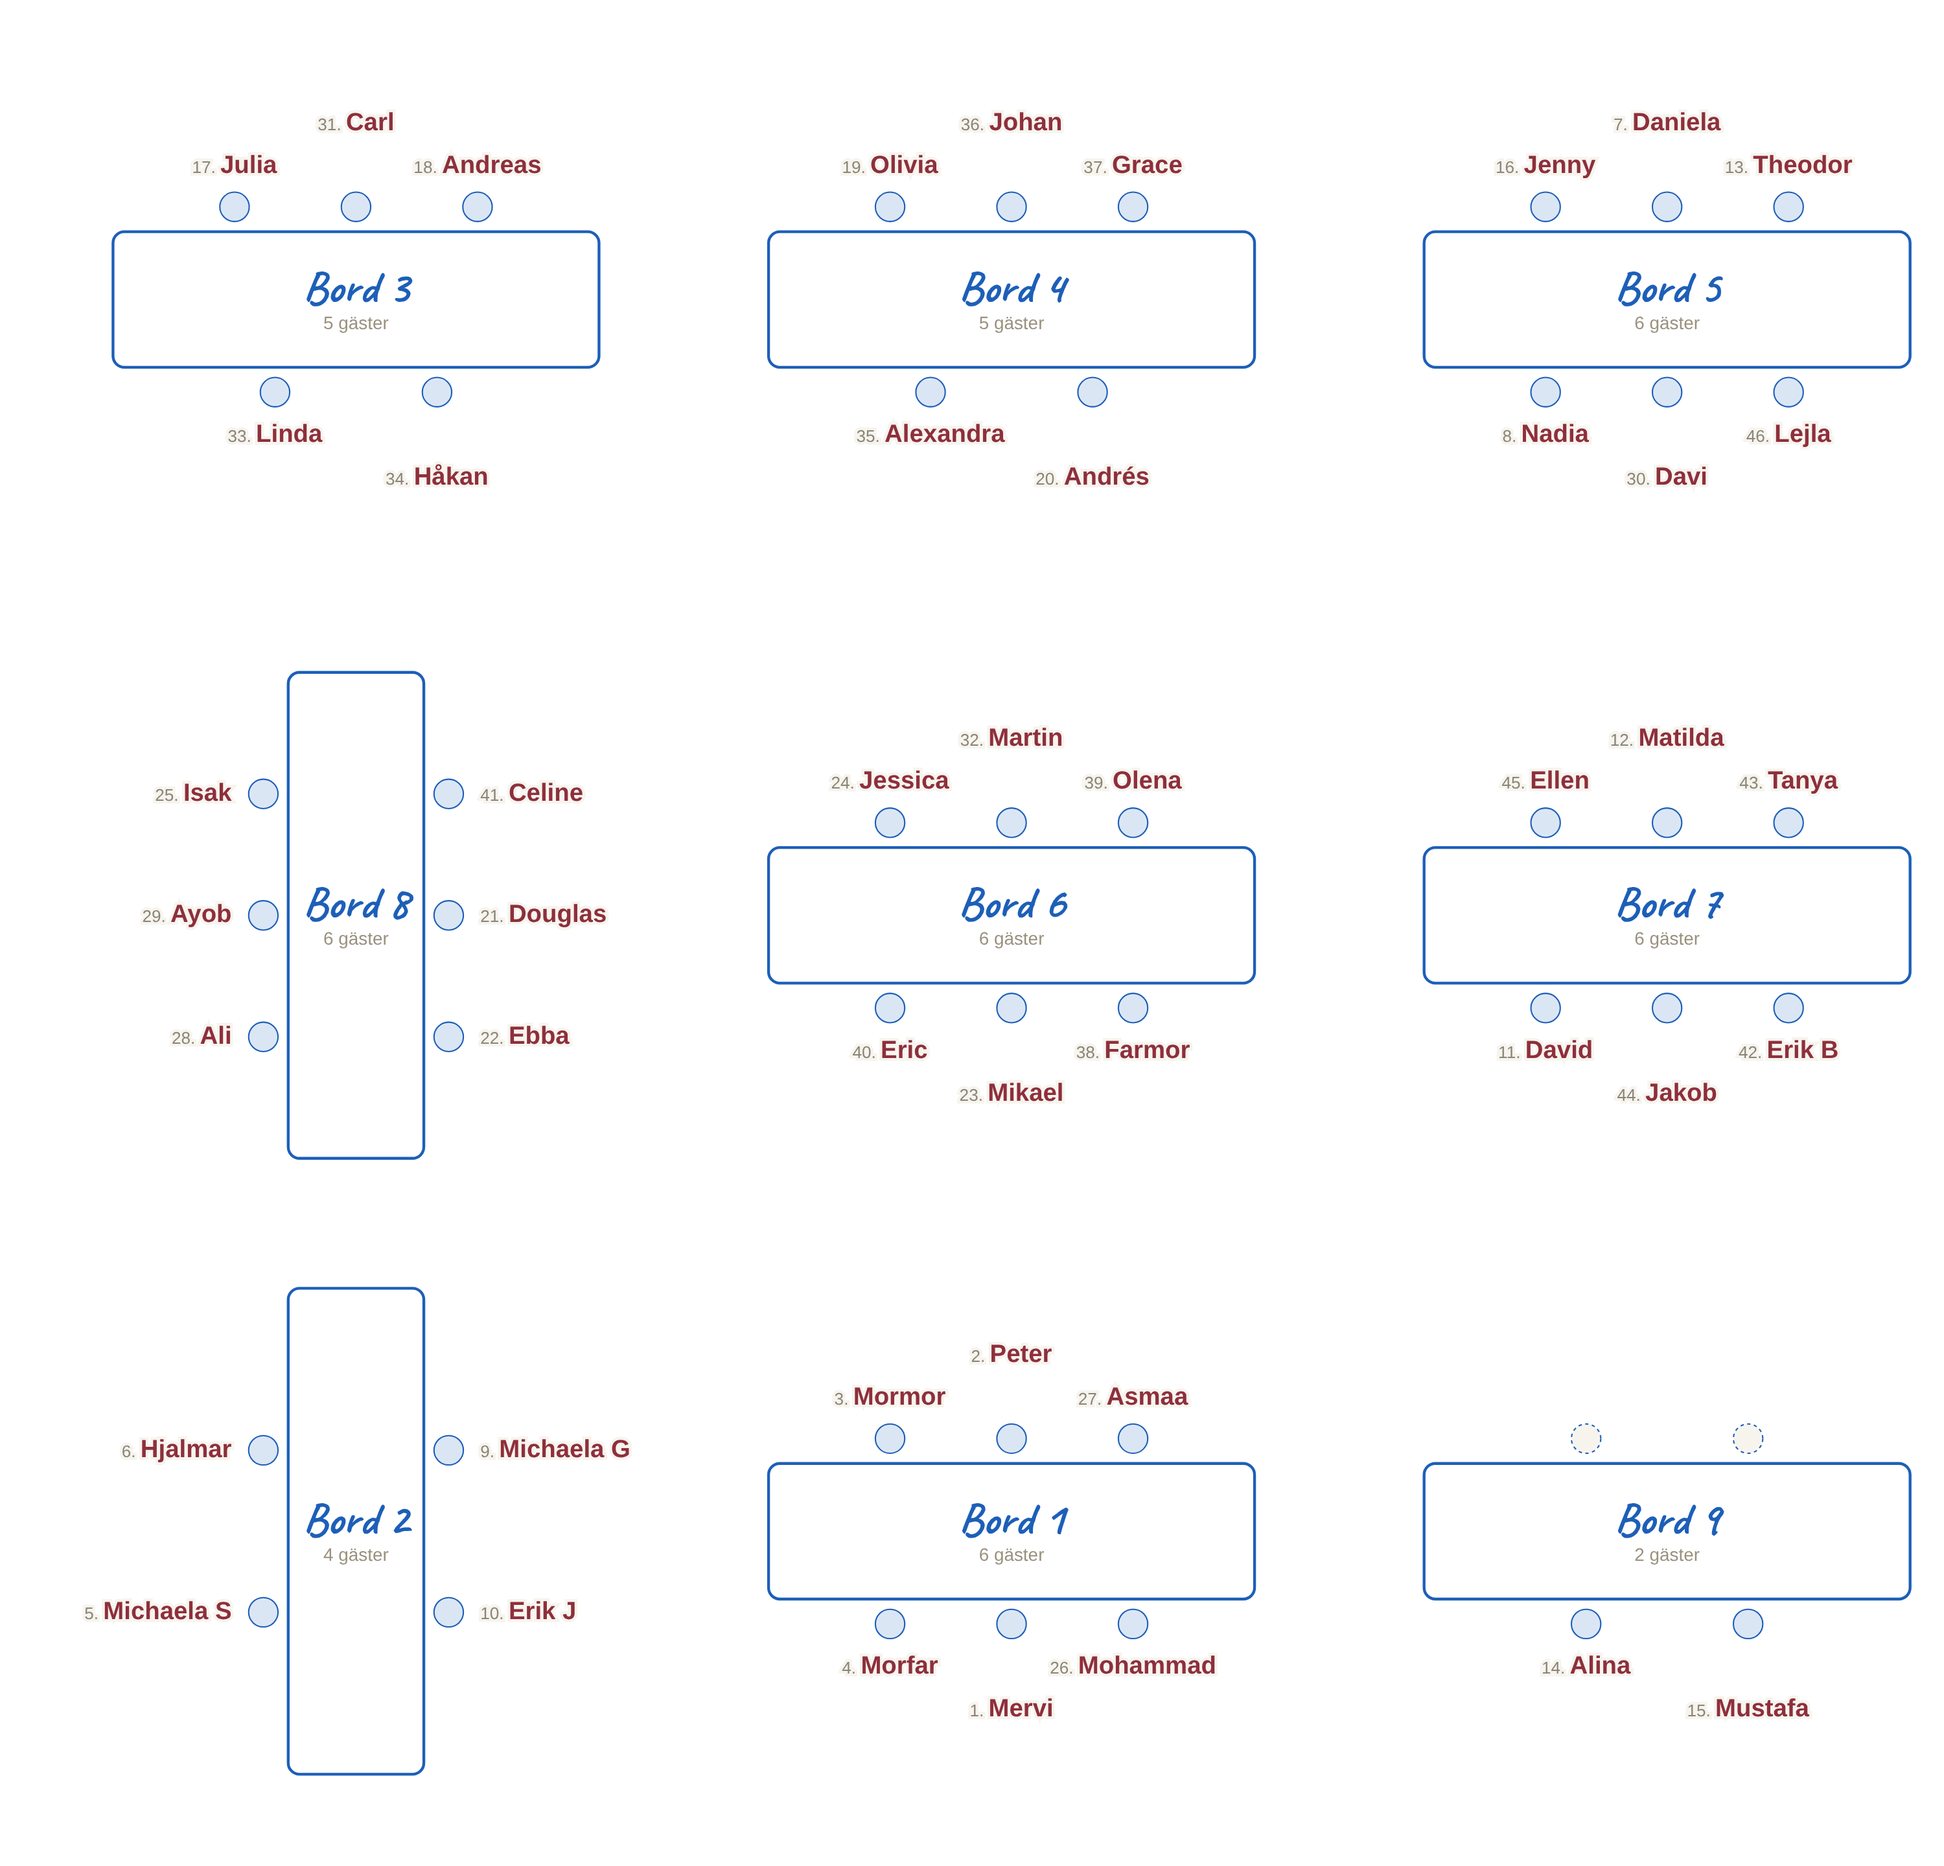
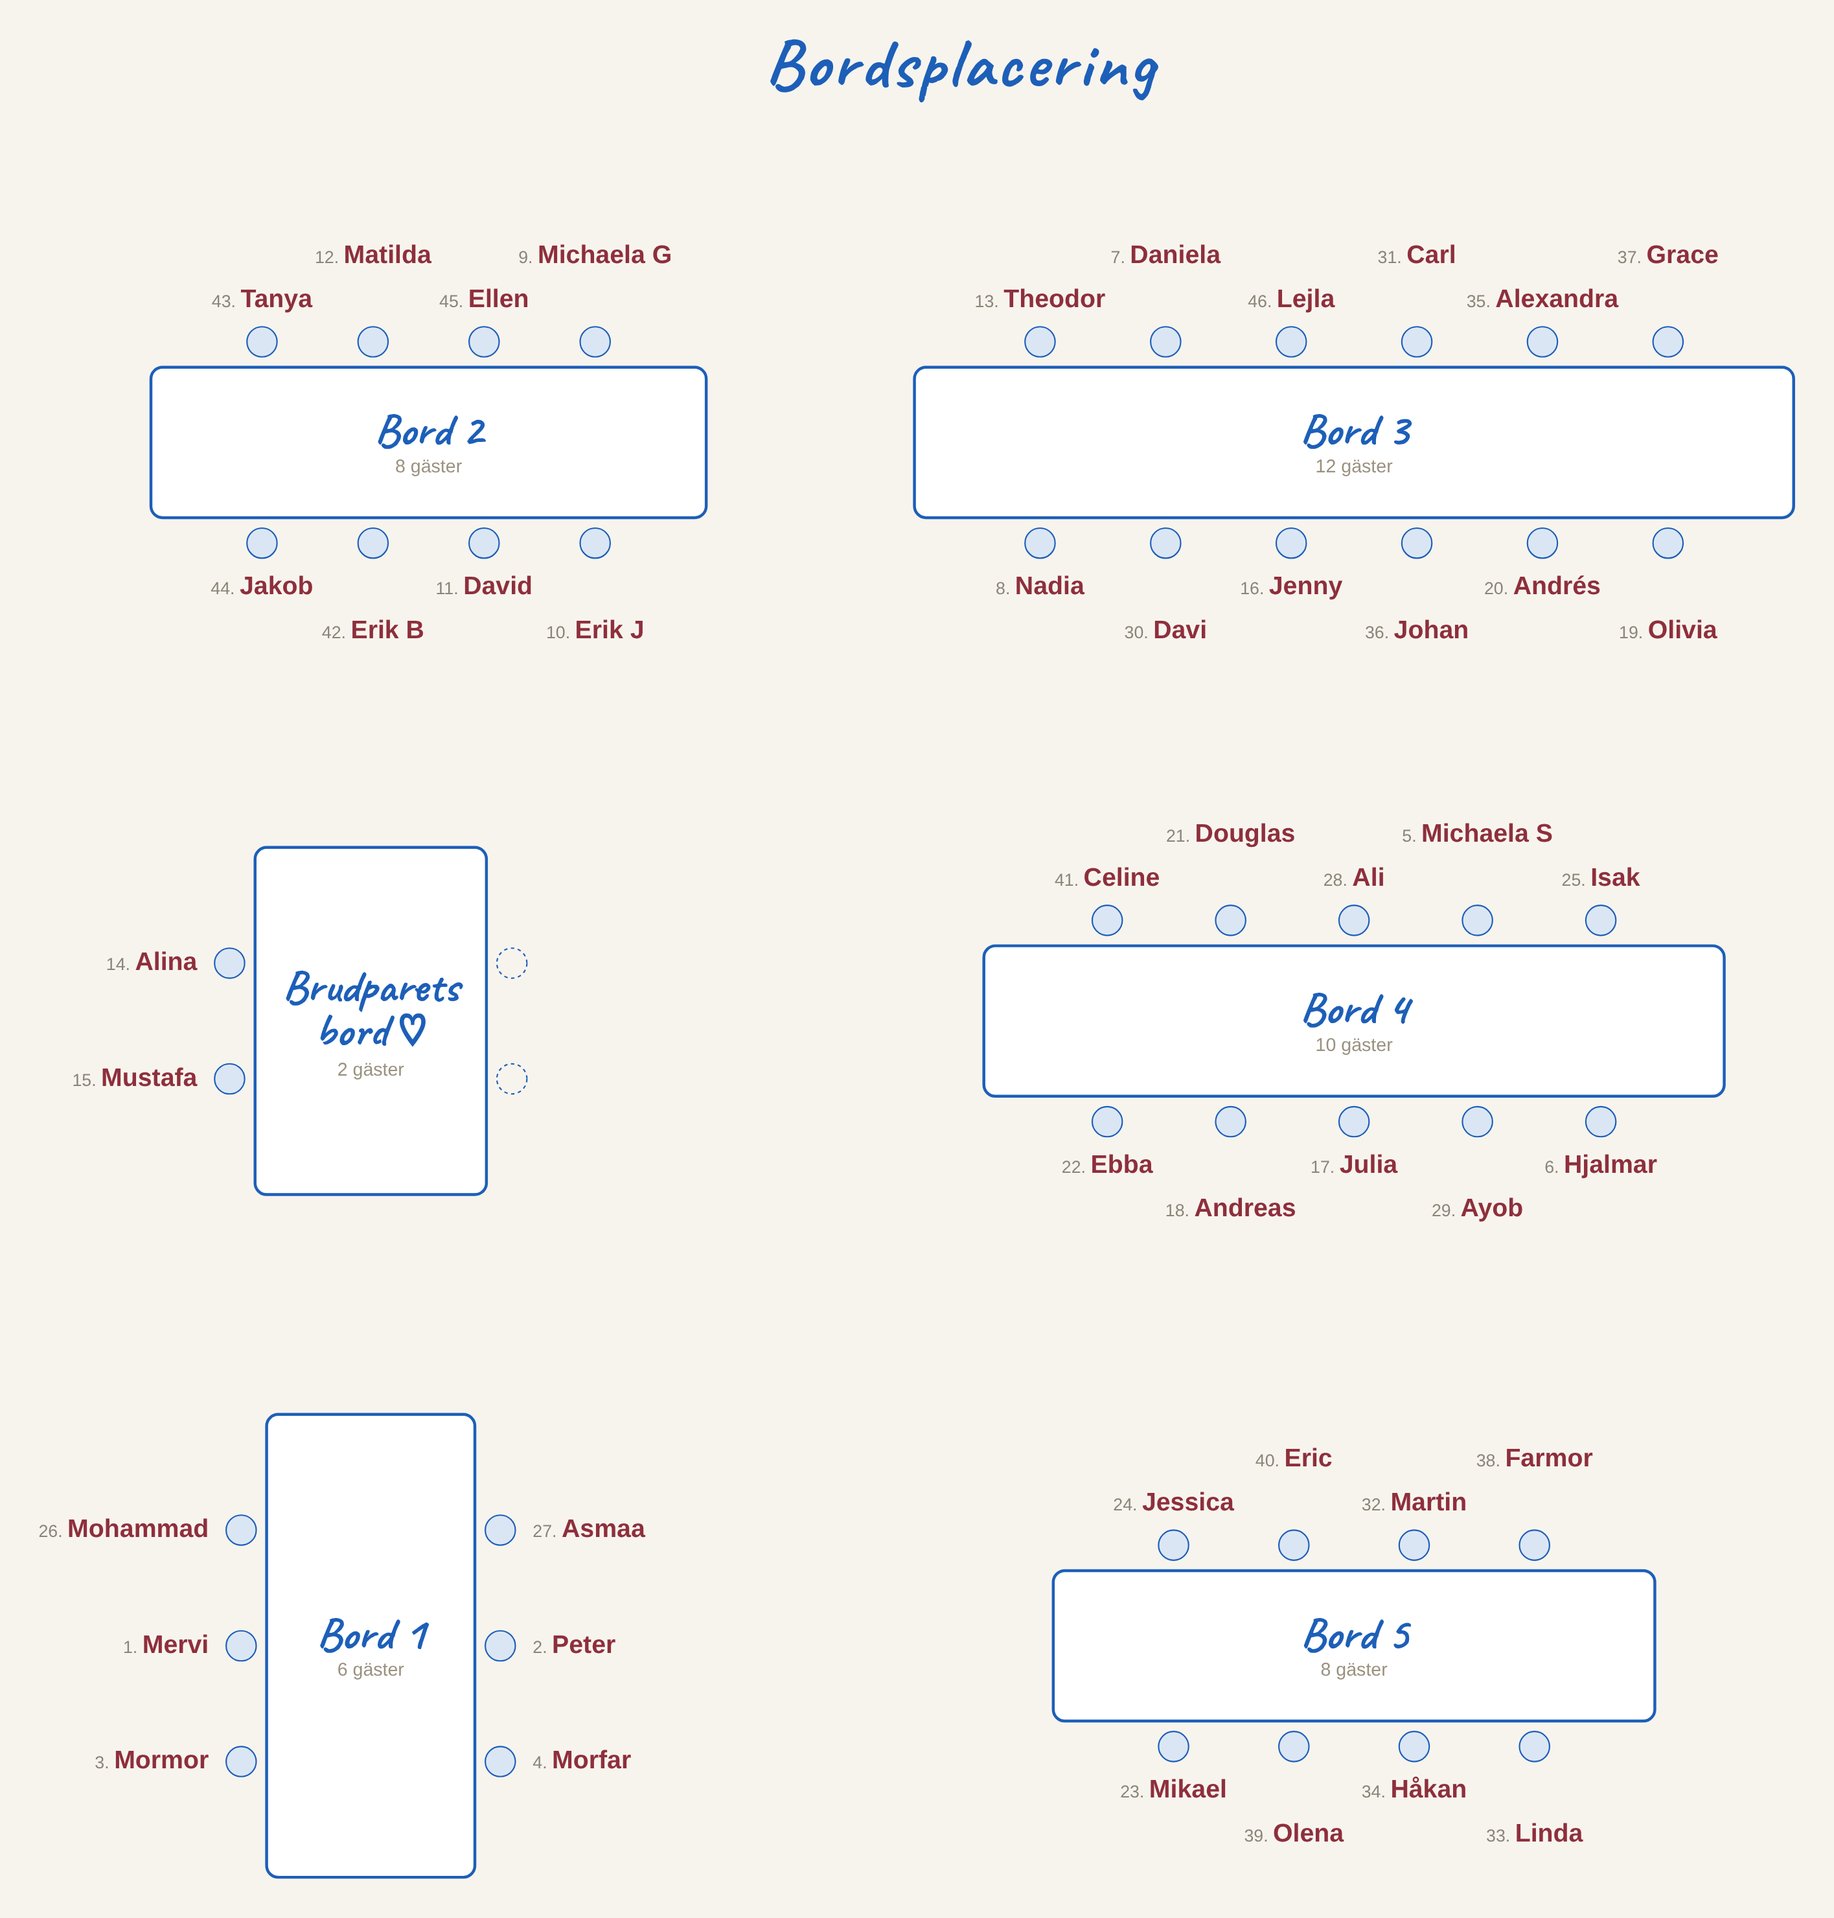
Update bordsplacering to new six-table layout

diff --git a/bordsplacering.html b/bordsplacering.html
@@ -48,43 +48,35 @@
 </head>
 <body>
 <h1>Bordsplacering</h1>
-<svg id="scene" viewBox="0 0 1720 1650" role="img" aria-label="Bordsplacering med nio avlånga bord"></svg>
+<svg id="scene" viewBox="0 0 1680 1560" role="img" aria-label="Bordsplacering med sex bord"></svg>
 
 <script>
 if (location.hash === "#embed") document.body.classList.add("embed");
 
 // Samma positioner som på fotot:
-// rad 1: Bord 3, 4, 5 · rad 2: Bord 8 (stående), 6, 7 · rad 3: Bord 2 (stående), 1, 9
+// vänster kolumn: Bord 2, Brudparets bord (stående), Bord 1 (stående)
+// höger kolumn: Bord 3, Bord 4, Bord 5
 const tables = [
-  { label: "Bord 3", col: 0, row: 0,
-    top:    [[17,"Julia"],[31,"Carl"],[18,"Andreas"]],
-    bottom: [[33,"Linda"],[34,"Håkan"]] },
-  { label: "Bord 4", col: 1, row: 0,
-    top:    [[19,"Olivia"],[36,"Johan"],[37,"Grace"]],
-    bottom: [[35,"Alexandra"],[20,"Andrés"]] },
-  { label: "Bord 5", col: 2, row: 0,
-    top:    [[16,"Jenny"],[7,"Daniela"],[13,"Theodor"]],
-    bottom: [[8,"Nadia"],[30,"Davi"],[46,"Lejla"]] },
+  { label: "Bord 2", cx: 380, cy: 290, len: 480, depth: 130,
+    top:    [[43,"Tanya"],[12,"Matilda"],[45,"Ellen"],[9,"Michaela G"]],
+    bottom: [[44,"Jakob"],[42,"Erik B"],[11,"David"],[10,"Erik J"]] },
+  { label: "Bord 3", cx: 1180, cy: 290, len: 760, depth: 130,
+    top:    [[13,"Theodor"],[7,"Daniela"],[46,"Lejla"],[31,"Carl"],[35,"Alexandra"],[37,"Grace"]],
+    bottom: [[8,"Nadia"],[30,"Davi"],[16,"Jenny"],[36,"Johan"],[20,"Andrés"],[19,"Olivia"]] },
 
-  { label: "Bord 8", col: 0, row: 1, vertical: true,
-    top:    [[25,"Isak"],[29,"Ayob"],[28,"Ali"]],          // vänster sida
-    bottom: [[41,"Celine"],[21,"Douglas"],[22,"Ebba"]] },  // höger sida
-  { label: "Bord 6", col: 1, row: 1,
-    top:    [[24,"Jessica"],[32,"Martin"],[39,"Olena"]],
-    bottom: [[40,"Eric"],[23,"Mikael"],[38,"Farmor"]] },
-  { label: "Bord 7", col: 2, row: 1,
-    top:    [[45,"Ellen"],[12,"Matilda"],[43,"Tanya"]],
-    bottom: [[11,"David"],[44,"Jakob"],[42,"Erik B"]] },
+  { label: ["Brudparets", "bord ♡"], cx: 330, cy: 790, len: 300, depth: 200, vertical: true,
+    top:    [[14,"Alina"],[15,"Mustafa"]],                 // vänster sida
+    bottom: [null, null] },                                // lediga platser
+  { label: "Bord 4", cx: 1180, cy: 790, len: 640, depth: 130,
+    top:    [[41,"Celine"],[21,"Douglas"],[28,"Ali"],[5,"Michaela S"],[25,"Isak"]],
+    bottom: [[22,"Ebba"],[18,"Andreas"],[17,"Julia"],[29,"Ayob"],[6,"Hjalmar"]] },
 
-  { label: "Bord 2", col: 0, row: 2, vertical: true,
-    top:    [[6,"Hjalmar"],[5,"Michaela S"]],              // vänster sida
-    bottom: [[9,"Michaela G"],[10,"Erik J"]] },            // höger sida
-  { label: "Bord 1", col: 1, row: 2,
-    top:    [[3,"Mormor"],[2,"Peter"],[27,"Asmaa"]],
-    bottom: [[4,"Morfar"],[1,"Mervi"],[26,"Mohammad"]] },
-  { label: "Bord 9", col: 2, row: 2,
-    top:    [null, null],                                   // lediga platser
-    bottom: [[14,"Alina"],[15,"Mustafa"]] },
+  { label: "Bord 1", cx: 330, cy: 1330, len: 400, depth: 180, vertical: true,
+    top:    [[26,"Mohammad"],[1,"Mervi"],[3,"Mormor"]],     // vänster sida
+    bottom: [[27,"Asmaa"],[2,"Peter"],[4,"Morfar"]] },      // höger sida
+  { label: "Bord 5", cx: 1180, cy: 1330, len: 520, depth: 130,
+    top:    [[24,"Jessica"],[40,"Eric"],[32,"Martin"],[38,"Farmor"]],
+    bottom: [[23,"Mikael"],[39,"Olena"],[34,"Håkan"],[33,"Linda"]] },
 ];
 
 const svgNS = "http://www.w3.org/2000/svg";
@@ -97,10 +89,7 @@ function el(name, attrs, parent) {
   return n;
 }
 
-const TABLE_L = 430, TABLE_S = 120; // lång- och kortsida
 const SEAT_R = 13, SEAT_GAP = 22;
-const X0 = 315, Y0 = 265;
-const CELL_W = 580, CELL_H = 545;
 
 function seatPositions(count, length) {
   // jämnt fördelade längs långsidan
@@ -120,48 +109,51 @@ function guestText(g, x, y, guest, anchor) {
 }
 
 tables.forEach(t => {
-  const cx = X0 + t.col * CELL_W;
-  const cy = Y0 + t.row * CELL_H;
+  const cx = t.cx, cy = t.cy, L = t.len, S = t.depth;
   const g = el("g", {}, svg);
   const guestCount = [...t.top, ...t.bottom].filter(Boolean).length;
 
   if (!t.vertical) {
     // liggande bord: gäster längs över- och undersidan
-    el("rect", { x: cx - TABLE_L/2, y: cy - TABLE_S/2, width: TABLE_L, height: TABLE_S, rx: 10, class: "tableRect" }, g);
+    el("rect", { x: cx - L/2, y: cy - S/2, width: L, height: S, rx: 10, class: "tableRect" }, g);
 
-    seatPositions(t.top.length, TABLE_L).forEach((dx, j) => {
+    seatPositions(t.top.length, L).forEach((dx, j) => {
       const guest = t.top[j];
-      const sy = cy - TABLE_S/2 - SEAT_GAP;
+      const sy = cy - S/2 - SEAT_GAP;
       el("circle", { cx: cx + dx, cy: sy, r: SEAT_R, class: guest ? "seat" : "seatEmpty" }, g);
       if (guest) guestText(g, cx + dx, j % 2 ? sy - 68 : sy - 30, guest, "middle");
     });
-    seatPositions(t.bottom.length, TABLE_L).forEach((dx, j) => {
+    seatPositions(t.bottom.length, L).forEach((dx, j) => {
       const guest = t.bottom[j];
-      const sy = cy + TABLE_S/2 + SEAT_GAP;
+      const sy = cy + S/2 + SEAT_GAP;
       el("circle", { cx: cx + dx, cy: sy, r: SEAT_R, class: guest ? "seat" : "seatEmpty" }, g);
       if (guest) guestText(g, cx + dx, j % 2 ? sy + 82 : sy + 44, guest, "middle");
     });
   } else {
     // stående bord: gäster längs vänster och höger sida
-    el("rect", { x: cx - TABLE_S/2, y: cy - TABLE_L/2, width: TABLE_S, height: TABLE_L, rx: 10, class: "tableRect" }, g);
+    el("rect", { x: cx - S/2, y: cy - L/2, width: S, height: L, rx: 10, class: "tableRect" }, g);
 
-    seatPositions(t.top.length, TABLE_L).forEach((dy, j) => {
+    seatPositions(t.top.length, L).forEach((dy, j) => {
       const guest = t.top[j];
-      const sx = cx - TABLE_S/2 - SEAT_GAP;
+      const sx = cx - S/2 - SEAT_GAP;
       el("circle", { cx: sx, cy: cy + dy, r: SEAT_R, class: guest ? "seat" : "seatEmpty" }, g);
       if (guest) guestText(g, sx - 28, cy + dy + 6, guest, "end");
     });
-    seatPositions(t.bottom.length, TABLE_L).forEach((dy, j) => {
+    seatPositions(t.bottom.length, L).forEach((dy, j) => {
       const guest = t.bottom[j];
-      const sx = cx + TABLE_S/2 + SEAT_GAP;
+      const sx = cx + S/2 + SEAT_GAP;
       el("circle", { cx: sx, cy: cy + dy, r: SEAT_R, class: guest ? "seat" : "seatEmpty" }, g);
       if (guest) guestText(g, sx + 28, cy + dy + 6, guest, "start");
     });
   }
 
-  const lbl = el("text", { x: cx, y: cy + 2, class: "bordName" }, g);
-  lbl.textContent = t.label;
-  const cnt = el("text", { x: cx, y: cy + 26, class: "bordCount" }, g);
+  const lines = Array.isArray(t.label) ? t.label : [t.label];
+  const lbl = el("text", { x: cx, y: cy + 2 - (lines.length - 1) * 19, class: "bordName" }, g);
+  lines.forEach((line, i) => {
+    const span = el("tspan", { x: cx, dy: i ? 38 : 0 }, lbl);
+    span.textContent = line;
+  });
+  const cnt = el("text", { x: cx, y: cy + 26 + (lines.length - 1) * 21, class: "bordCount" }, g);
   cnt.textContent = guestCount + " gäster";
 });
 </script>
